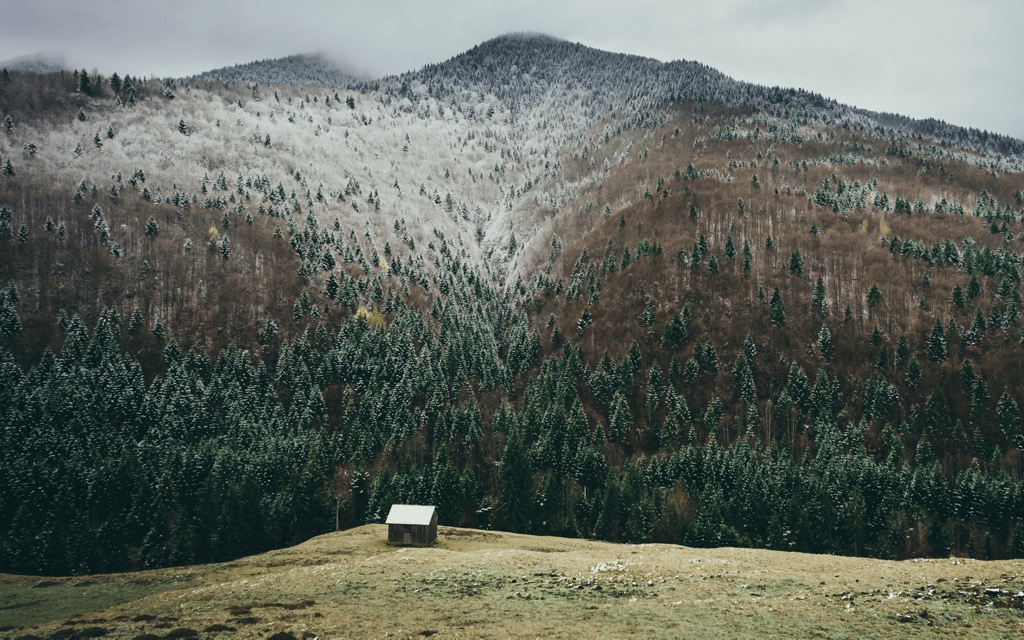
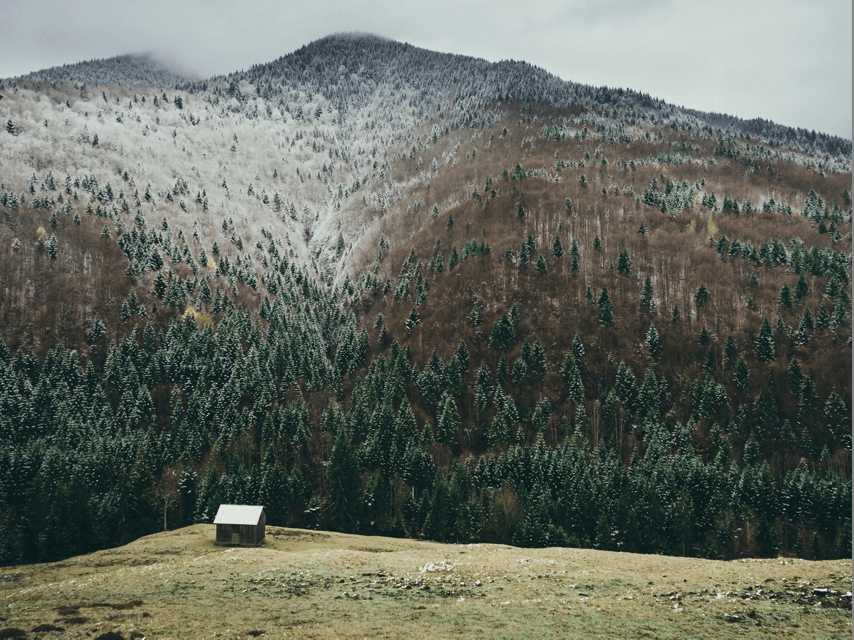
fix cover image responsive bug

diff --git a/framework/css/main-small.css b/framework/css/main-small.css
@@ -63,17 +63,58 @@ body {
  }
 
  /*STRUCTURE */
- .cover {
- height: 100vh; 
- width: 100vw;
- max-width: 100%;
-  background: url('img_src/cover.png') no-repeat center center; 
+@media screen and (min-width: 641px) {
+  .cover{
+  background: url('img/cover-large.png') no-repeat center center; 
+  height: 100vh; 
+  width: 100vw;
+  -webkit-background-size: cover;
+  -moz-background-size: cover;
+  -o-background-size: cover;
+  background-size: cover;
+  position: relative;
+  }
+}
+
+
+@media screen and (max-width: 640px) {
+  .cover{
+  background: url('img/cover-medium.png') no-repeat center center;
+  height: 100vh; 
+  width: 100vw;
   -webkit-background-size: cover;
   -moz-background-size: cover;
   -o-background-size: cover;
   background-size: cover;
   position: relative; 
+  }
 }
+
+/*
+  WHY THIS DOESN'T WORK ? I DON'T KNOW
+  cover {
+  position: relative;
+  display: block;
+}
+
+.cover-img {
+    width: 100vw;
+    display: inline-block;
+    vertical-align: middle;
+    font: 0/0 serif;
+    text-shadow: none;
+    color: transparent;
+    background-size: 100%;
+    background-position: 50% 50%;
+    background-repeat: no-repeat;
+    background-image: url("img_src/cover.png");
+}
+
+.cover-img-inner {
+    display: inline-block;
+    height: 0;
+    padding-top: 63.3%;
+}*/
 
 .row {
     max-width: 700px;
